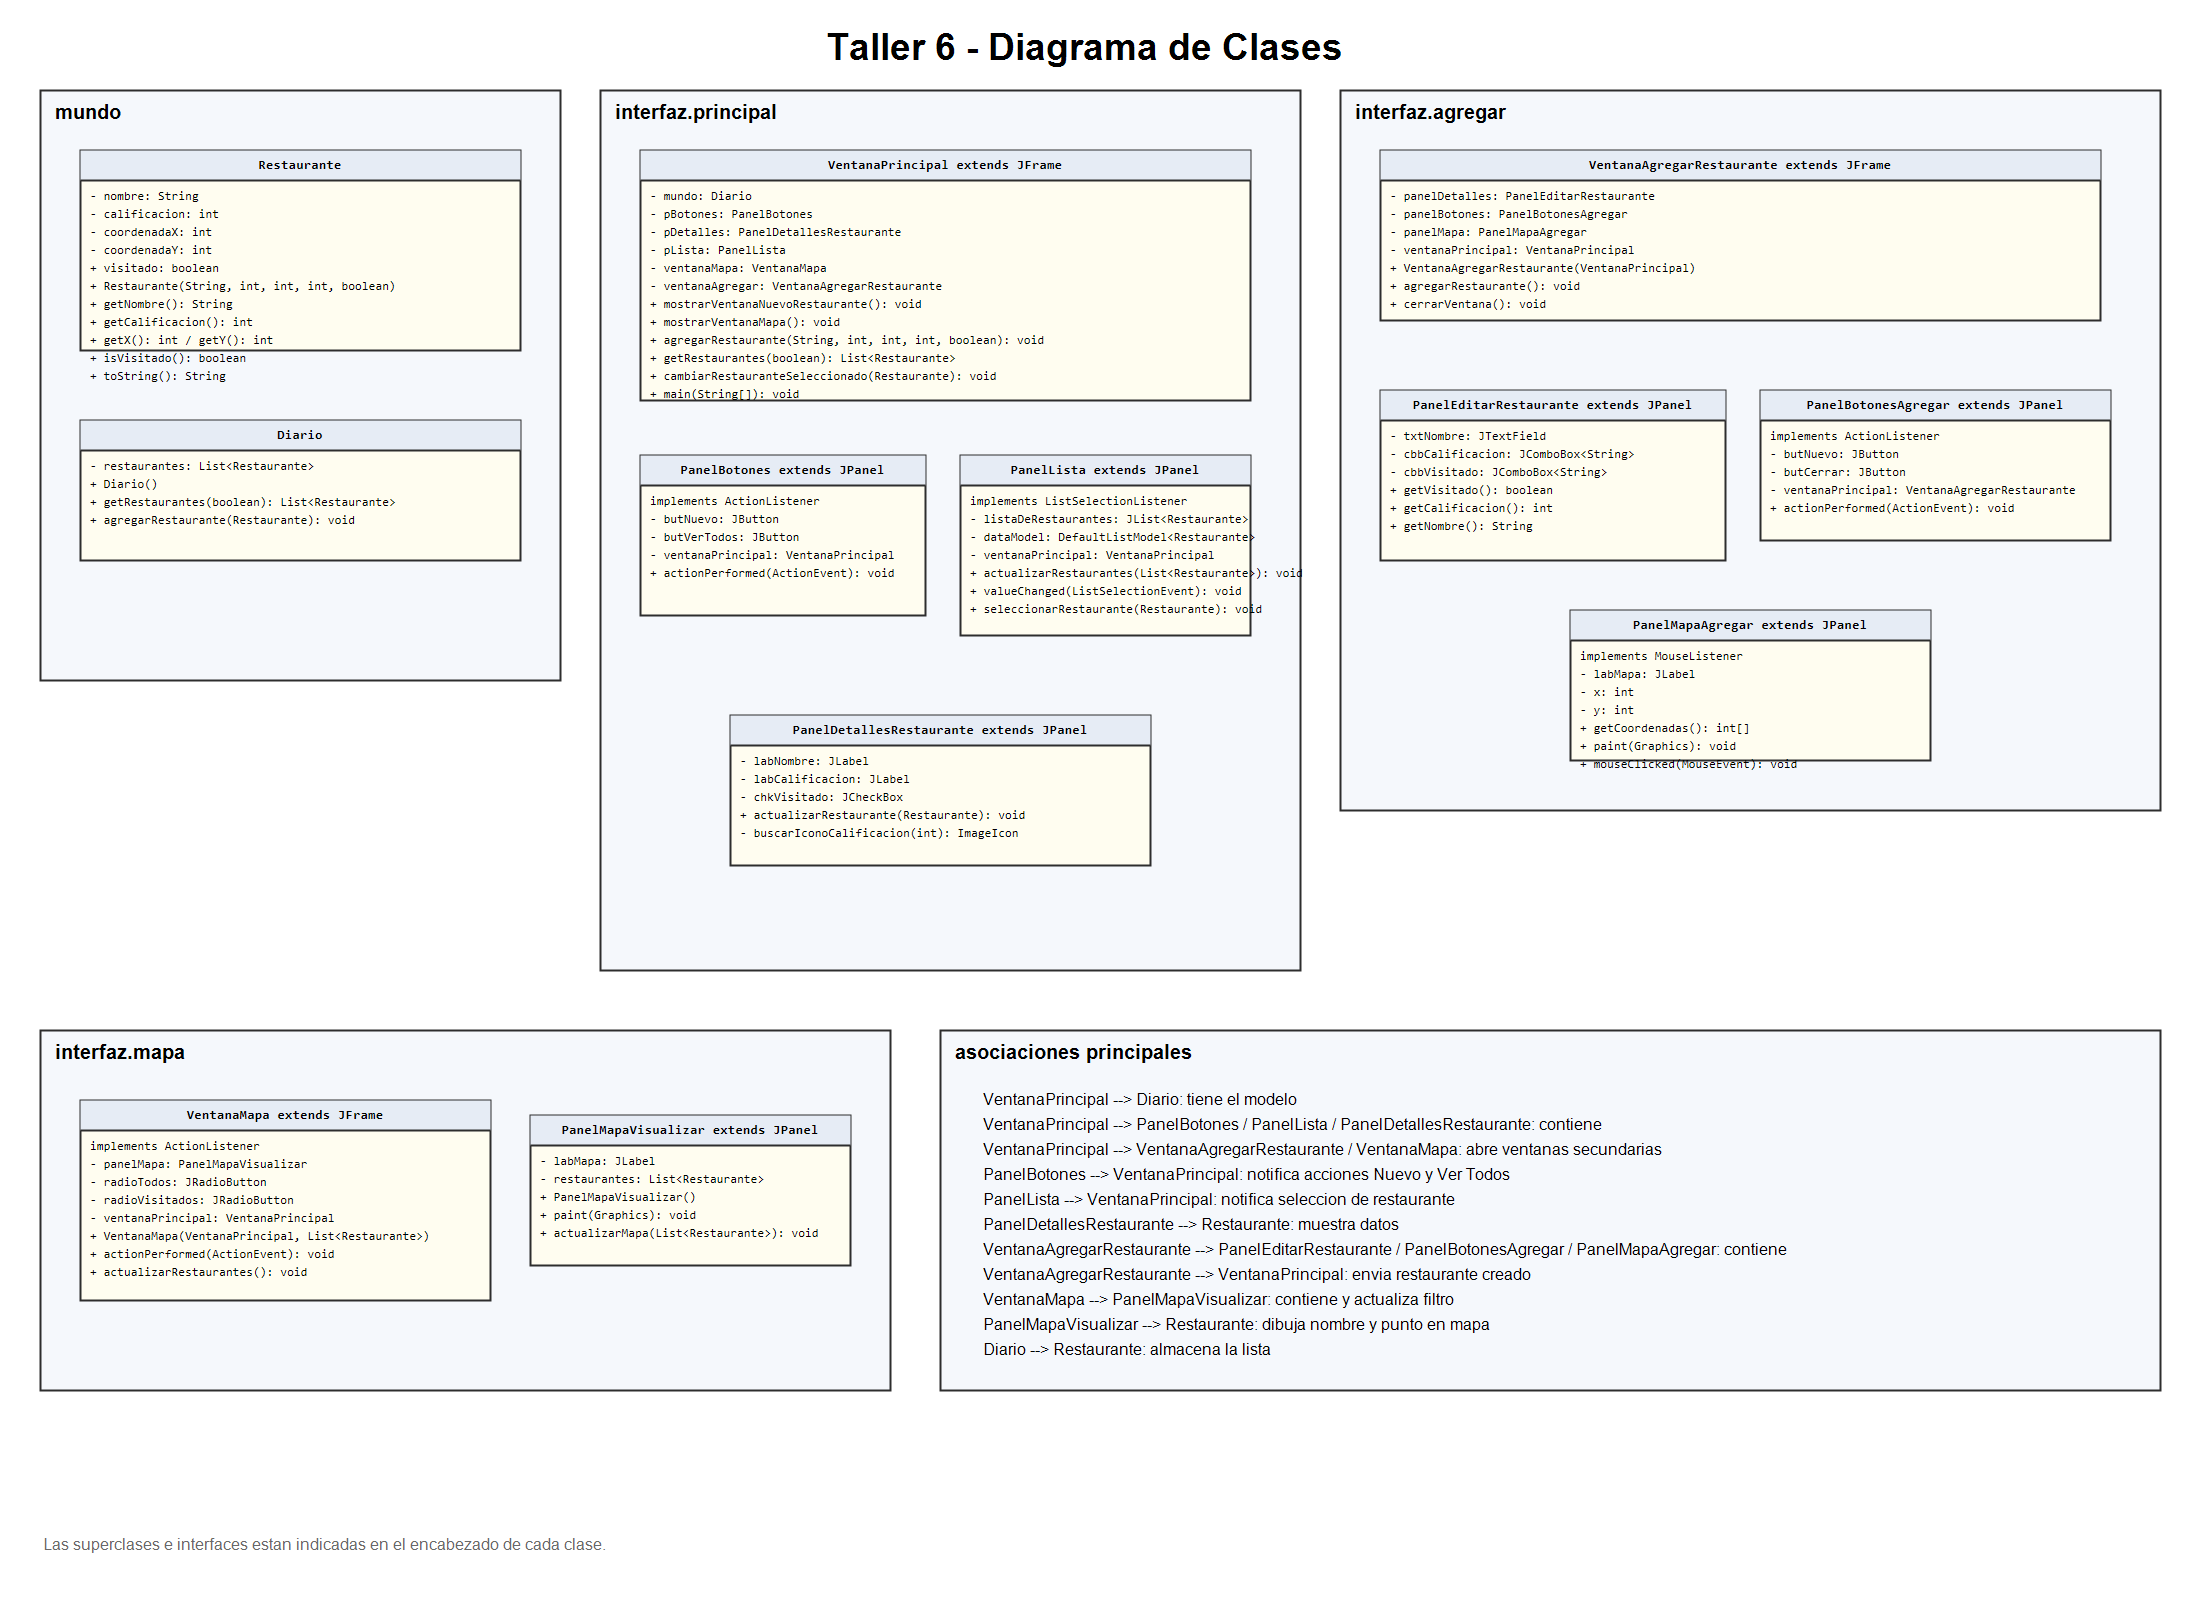
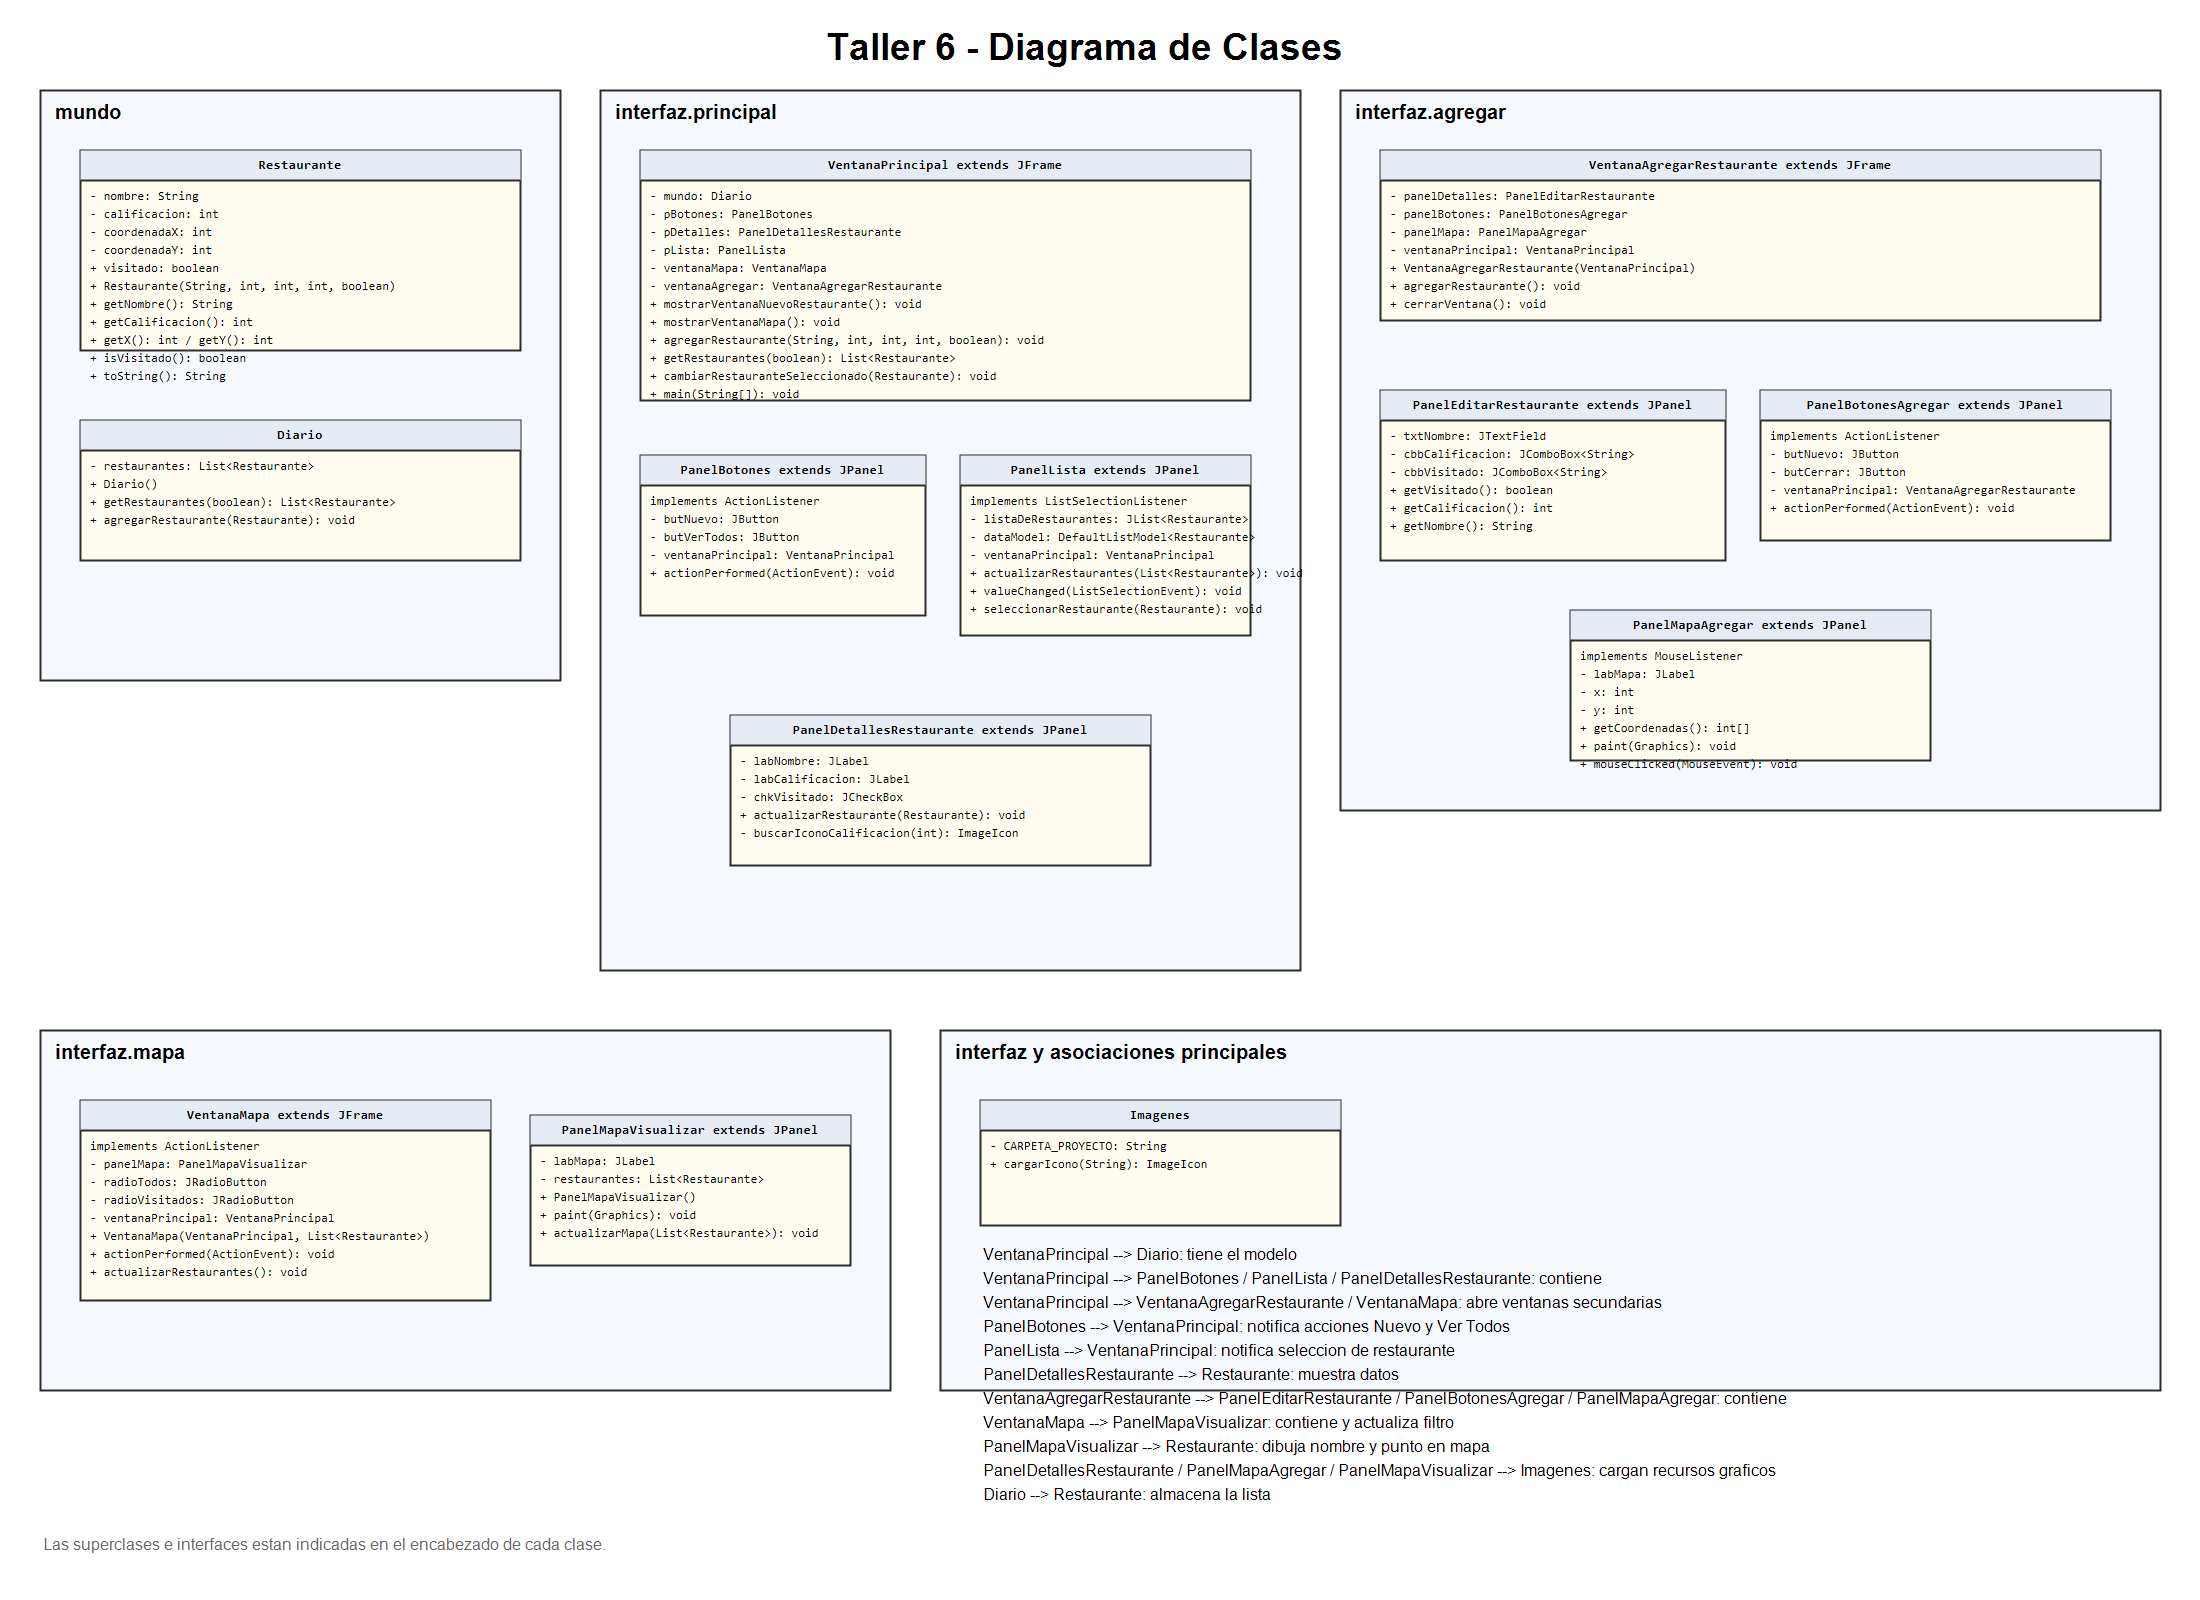
fix image loading paths

Changed region(s): [[0.4327, 0.6562, 0.7418, 0.9375], [0.7109, 0.9062, 0.8036, 0.9375]]

diff --git a/Taller Swing Restaurantes Esqueleto/src/uniandes/dpoo/swing/interfaz/Imagenes.java b/Taller Swing Restaurantes Esqueleto/src/uniandes/dpoo/swing/interfaz/Imagenes.java
@@ -1,0 +1,33 @@
+package uniandes.dpoo.swing.interfaz;
+
+import java.io.File;
+import java.net.URL;
+
+import javax.swing.ImageIcon;
+
+public class Imagenes
+{
+    private static final String CARPETA_PROYECTO = "Taller Swing Restaurantes Esqueleto";
+
+    private Imagenes( )
+    {
+    }
+
+    public static ImageIcon cargarIcono( String nombreImagen )
+    {
+        URL recurso = Imagenes.class.getClassLoader( ).getResource( "imagenes/" + nombreImagen );
+        if( recurso != null )
+        {
+            return new ImageIcon( recurso );
+        }
+
+        File imagen = new File( "imagenes", nombreImagen );
+        if( imagen.exists( ) )
+        {
+            return new ImageIcon( imagen.getPath( ) );
+        }
+
+        imagen = new File( CARPETA_PROYECTO + File.separator + "imagenes", nombreImagen );
+        return new ImageIcon( imagen.getPath( ) );
+    }
+}

diff --git a/Taller Swing Restaurantes Esqueleto/src/uniandes/dpoo/swing/interfaz/agregar/PanelMapaAgregar.java b/Taller Swing Restaurantes Esqueleto/src/uniandes/dpoo/swing/interfaz/agregar/PanelMapaAgregar.java
@@ -6,10 +6,11 @@ import java.awt.Graphics2D;
 import java.awt.event.MouseEvent;
 import java.awt.event.MouseListener;
 
-import javax.swing.ImageIcon;
 import javax.swing.JLabel;
 import javax.swing.JPanel;
 import javax.swing.border.LineBorder;
+
+import uniandes.dpoo.swing.interfaz.Imagenes;
 
 @SuppressWarnings("serial")
 public class PanelMapaAgregar extends JPanel implements MouseListener
@@ -31,7 +32,7 @@ public class PanelMapaAgregar extends JPanel implements MouseListener
 
     public PanelMapaAgregar( )
     {
-        this.labMapa = new JLabel( new ImageIcon( "./imagenes/mapa.png" ) );
+        this.labMapa = new JLabel( Imagenes.cargarIcono( "mapa.png" ) );
         labMapa.setBorder( new LineBorder( Color.DARK_GRAY ) );
         labMapa.addMouseListener( this );
         add( labMapa );

diff --git a/Taller Swing Restaurantes Esqueleto/src/uniandes/dpoo/swing/interfaz/mapa/PanelMapaVisualizar.java b/Taller Swing Restaurantes Esqueleto/src/uniandes/dpoo/swing/interfaz/mapa/PanelMapaVisualizar.java
@@ -6,11 +6,11 @@ import java.awt.Graphics;
 import java.awt.Graphics2D;
 import java.util.List;
 
-import javax.swing.ImageIcon;
 import javax.swing.JLabel;
 import javax.swing.JPanel;
 import javax.swing.border.LineBorder;
 
+import uniandes.dpoo.swing.interfaz.Imagenes;
 import uniandes.dpoo.swing.mundo.Restaurante;
 
 @SuppressWarnings("serial")
@@ -28,7 +28,8 @@ public class PanelMapaVisualizar extends JPanel
 
     public PanelMapaVisualizar( )
     {
-        this.labMapa = new JLabel( new ImageIcon( "./imagenes/mapa.png" ) );
+        setLayout( new BorderLayout( ) );
+        this.labMapa = new JLabel( Imagenes.cargarIcono( "mapa.png" ) );
         labMapa.setBorder( new LineBorder( Color.DARK_GRAY ) );
         add( labMapa, BorderLayout.CENTER );
     }

diff --git a/Taller Swing Restaurantes Esqueleto/src/uniandes/dpoo/swing/interfaz/principal/PanelDetallesRestaurante.java b/Taller Swing Restaurantes Esqueleto/src/uniandes/dpoo/swing/interfaz/principal/PanelDetallesRestaurante.java
@@ -8,6 +8,7 @@ import javax.swing.JCheckBox;
 import javax.swing.JLabel;
 import javax.swing.JPanel;
 
+import uniandes.dpoo.swing.interfaz.Imagenes;
 import uniandes.dpoo.swing.mundo.Restaurante;
 
 @SuppressWarnings("serial")
@@ -85,7 +86,6 @@ public class PanelDetallesRestaurante extends JPanel
      */
     private ImageIcon buscarIconoCalificacion( int calificacion )
     {
-        String imagen = "./imagenes/stars" + calificacion + ".png";
-        return new ImageIcon( imagen );
+        return Imagenes.cargarIcono( "stars" + calificacion + ".png" );
     }
 }

diff --git a/Taller Swing Restaurantes Esqueleto/SETUP.md b/Taller Swing Restaurantes Esqueleto/SETUP.md
@@ -96,10 +96,7 @@ src/uniandes/dpoo/swing/
 ### Método 1: Desde línea de comandos
 ```bash
 cd "Taller Swing Restaurantes Esqueleto"
-javac -d bin src/uniandes/dpoo/swing/mundo/*.java
-javac -d bin src/uniandes/dpoo/swing/interfaz/principal/*.java
-javac -d bin src/uniandes/dpoo/swing/interfaz/agregar/*.java
-javac -d bin src/uniandes/dpoo/swing/interfaz/mapa/*.java
+javac -d bin src/uniandes/dpoo/swing/mundo/*.java src/uniandes/dpoo/swing/interfaz/*.java src/uniandes/dpoo/swing/interfaz/principal/*.java src/uniandes/dpoo/swing/interfaz/agregar/*.java src/uniandes/dpoo/swing/interfaz/mapa/*.java
 java -cp bin uniandes.dpoo.swing.interfaz.principal.VentanaPrincipal
 ```
 

diff --git a/Taller Swing Restaurantes Esqueleto/README.md b/Taller Swing Restaurantes Esqueleto/README.md
@@ -52,10 +52,7 @@ cd "Taller Swing Restaurantes Esqueleto"
 
 2. Compila los archivos Java:
 ```bash
-javac -d bin src/uniandes/dpoo/swing/mundo/*.java
-javac -d bin src/uniandes/dpoo/swing/interfaz/principal/*.java
-javac -d bin src/uniandes/dpoo/swing/interfaz/agregar/*.java
-javac -d bin src/uniandes/dpoo/swing/interfaz/mapa/*.java
+javac -d bin src/uniandes/dpoo/swing/mundo/*.java src/uniandes/dpoo/swing/interfaz/*.java src/uniandes/dpoo/swing/interfaz/principal/*.java src/uniandes/dpoo/swing/interfaz/agregar/*.java src/uniandes/dpoo/swing/interfaz/mapa/*.java
 ```
 
 3. Ejecuta la aplicación:
